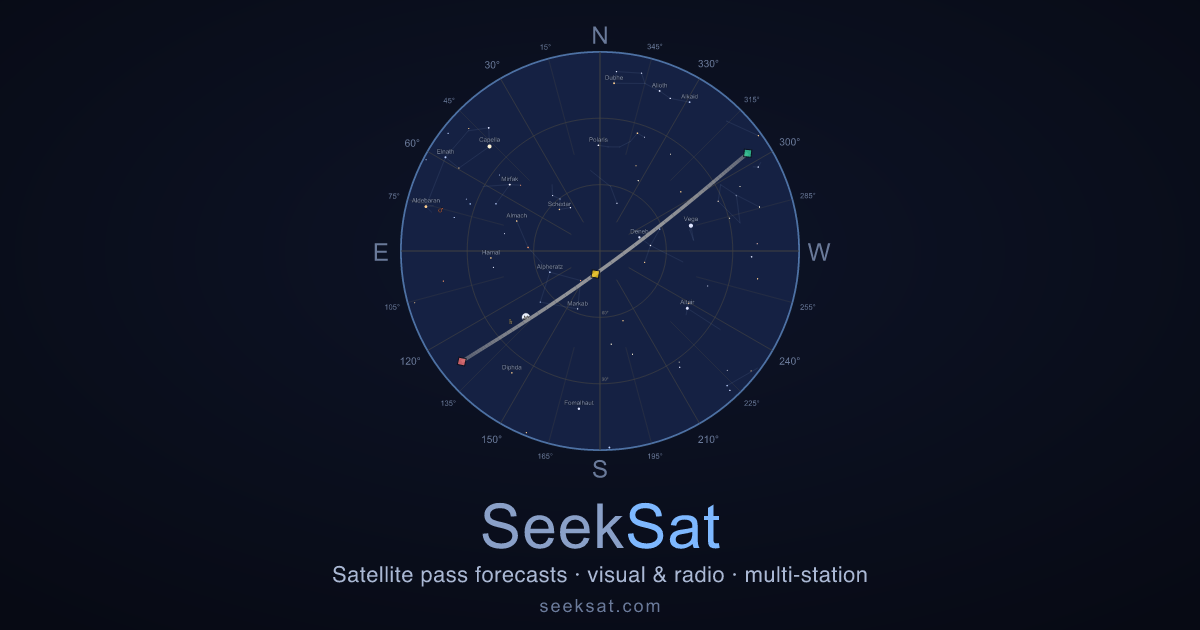
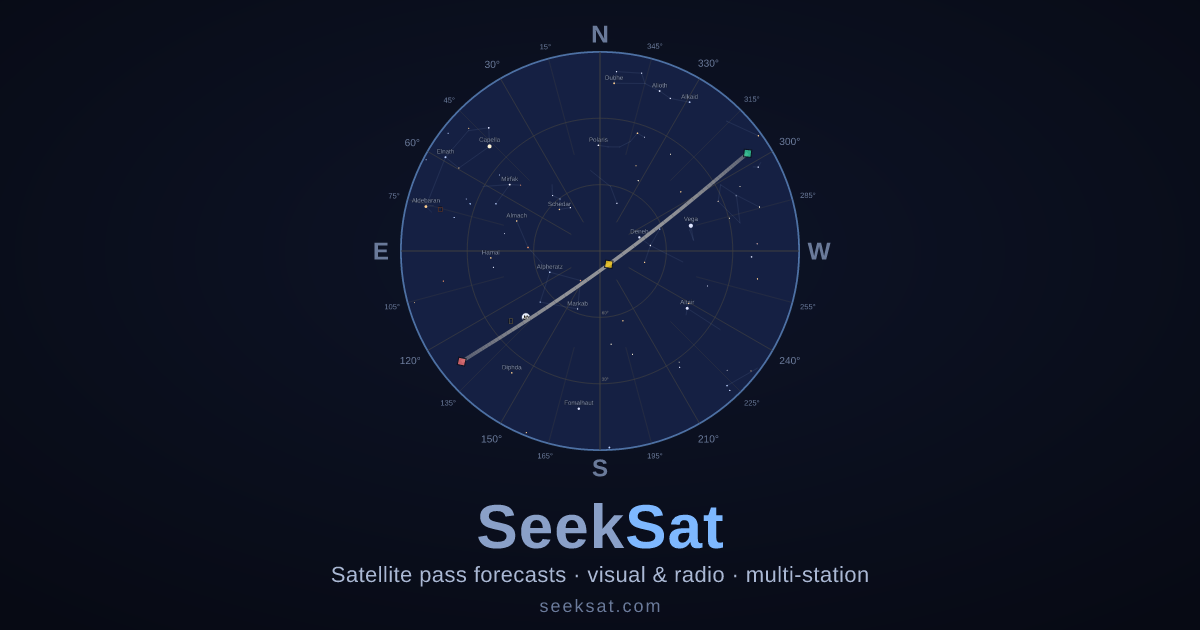
fix(og): rasterize with @user/resvg-wasm (native linux binary dropped all text)
The native @user/resvg-js linux-x64-gnu binary on Vercel silently
renders no text even with fontBuffers supplied (macOS renders fine), so
share-link cards came out as a textless disc. Switch to the WASM build —
identical bytecode on every platform, verified locally. The ~2.4MB wasm
is gzip+base64 embedded (lib/og/resvg-wasm-embed.mjs) so it needs no
filesystem/tracing, same as the fonts. Drop the native resvg-js dep.

diff --git a/next.config.ts b/next.config.ts
@@ -12,14 +12,13 @@ import type { NextConfig } from "next";
 // filenames are content-hashed), so we don't touch that path.
 const nextConfig: NextConfig = {
   reactStrictMode: true,
-  // @resvg/resvg-js uses a native .node addon webpack can't bundle, so
-  // it loads as a plain Node require() at runtime. linkedom (the headless
-  // DOM in lib/og) is deliberately NOT externalized — it's ESM-native and
-  // bundles cleanly, and require()-ing an ESM-only package at runtime is
-  // exactly the failure mode that made us drop jsdom here.
-  // (rasterize.mjs resolves its bundled fonts via __dirname rather than
-  // `new URL(..., import.meta.url)` so webpack doesn't choke on the path.)
-  serverExternalPackages: ["@resvg/resvg-js"],
+  // The OG renderer (lib/og) is intentionally all-bundleable: linkedom
+  // (DOM) + @resvg/resvg-wasm (rasterizer) are ESM/JS, and the wasm bytes
+  // and fonts are base64-embedded modules — so nothing needs externalizing
+  // or filesystem access at runtime. We dropped the native @resvg/resvg-js
+  // (its linux binary silently dropped all text on Vercel) and jsdom (its
+  // dep tree hit ERR_REQUIRE_ESM), which is why there's no serverExternal
+  // list anymore.
   // Cesium is loaded from the CDN via a <Script> in app/layout.tsx
   // (same approach as the legacy static pages) — keeps the bundle
   // out of Webpack/Turbopack and avoids the asset-copy ceremony.